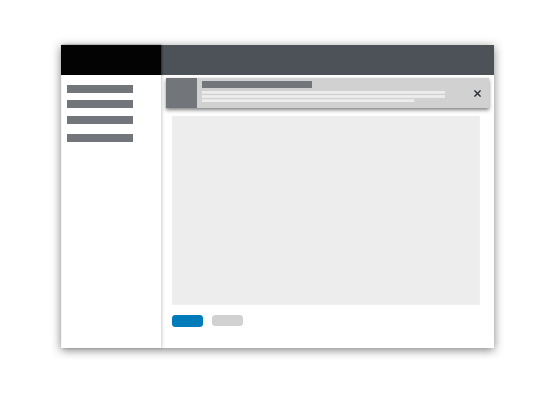
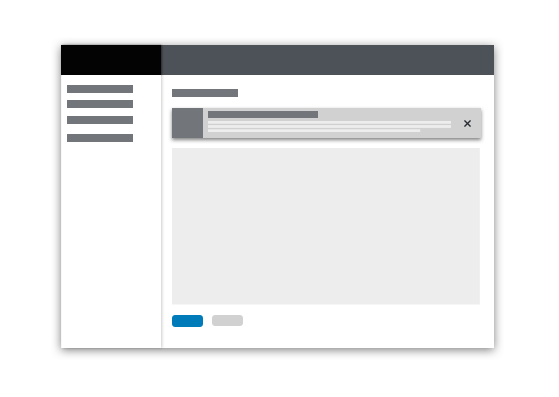
fix(docs): remove border between sections

Changed region(s): [[0.2737, 0.1814, 0.8819, 0.3627]]

diff --git a/packages/patternfly-4/src/components/_core/Documentation/index.js b/packages/patternfly-4/src/components/_core/Documentation/index.js
@@ -46,7 +46,7 @@ export default class Documentation extends React.Component {
         return (
           <Layout sideNav={<SideNav />}>
             <SEO title="React" />
-            <PageSection variant={PageSectionVariants.light} className="pf-w-section-border pf-u-pt-md pf-site-background-medium">
+            <PageSection variant={PageSectionVariants.light} className="pf-u-pt-md pf-site-background-medium">
               <AutoLinkHeader size="md" is="h1" className="pf4-site-framework-title">{componentType}</AutoLinkHeader>
               <AutoLinkHeader size="4xl" is="h2" className="pf-u-mt-sm pf-u-mb-md">{heading}</AutoLinkHeader>
               <Section title="Examples" headingLevel="h3" className={className}>
